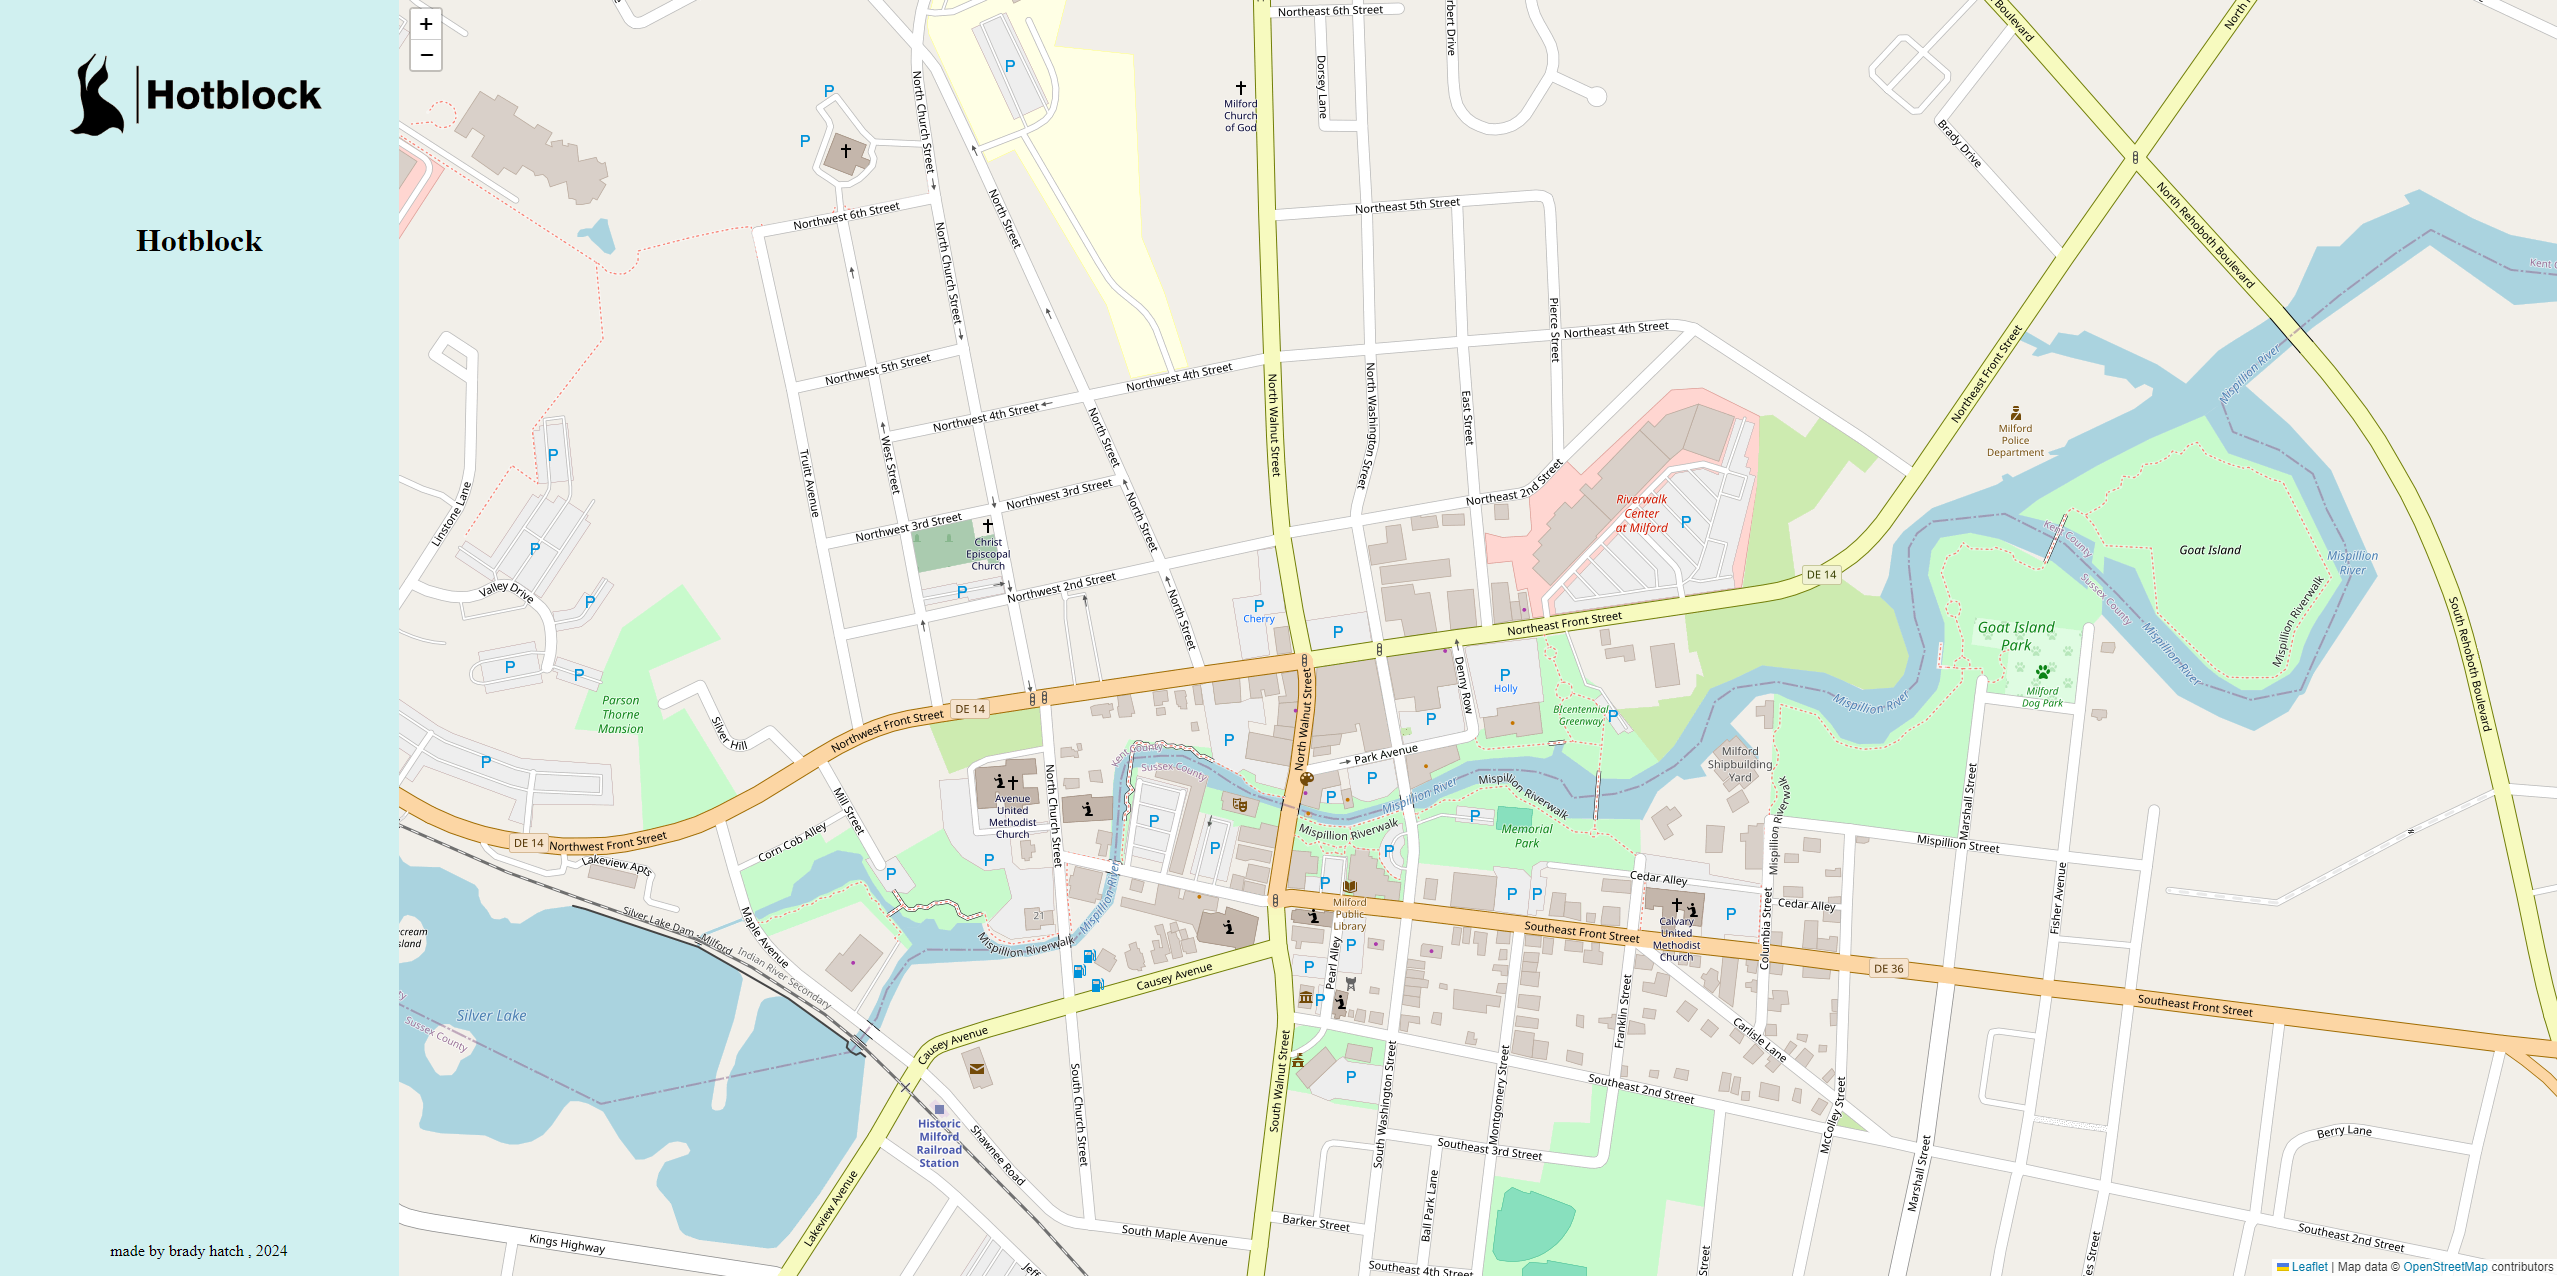
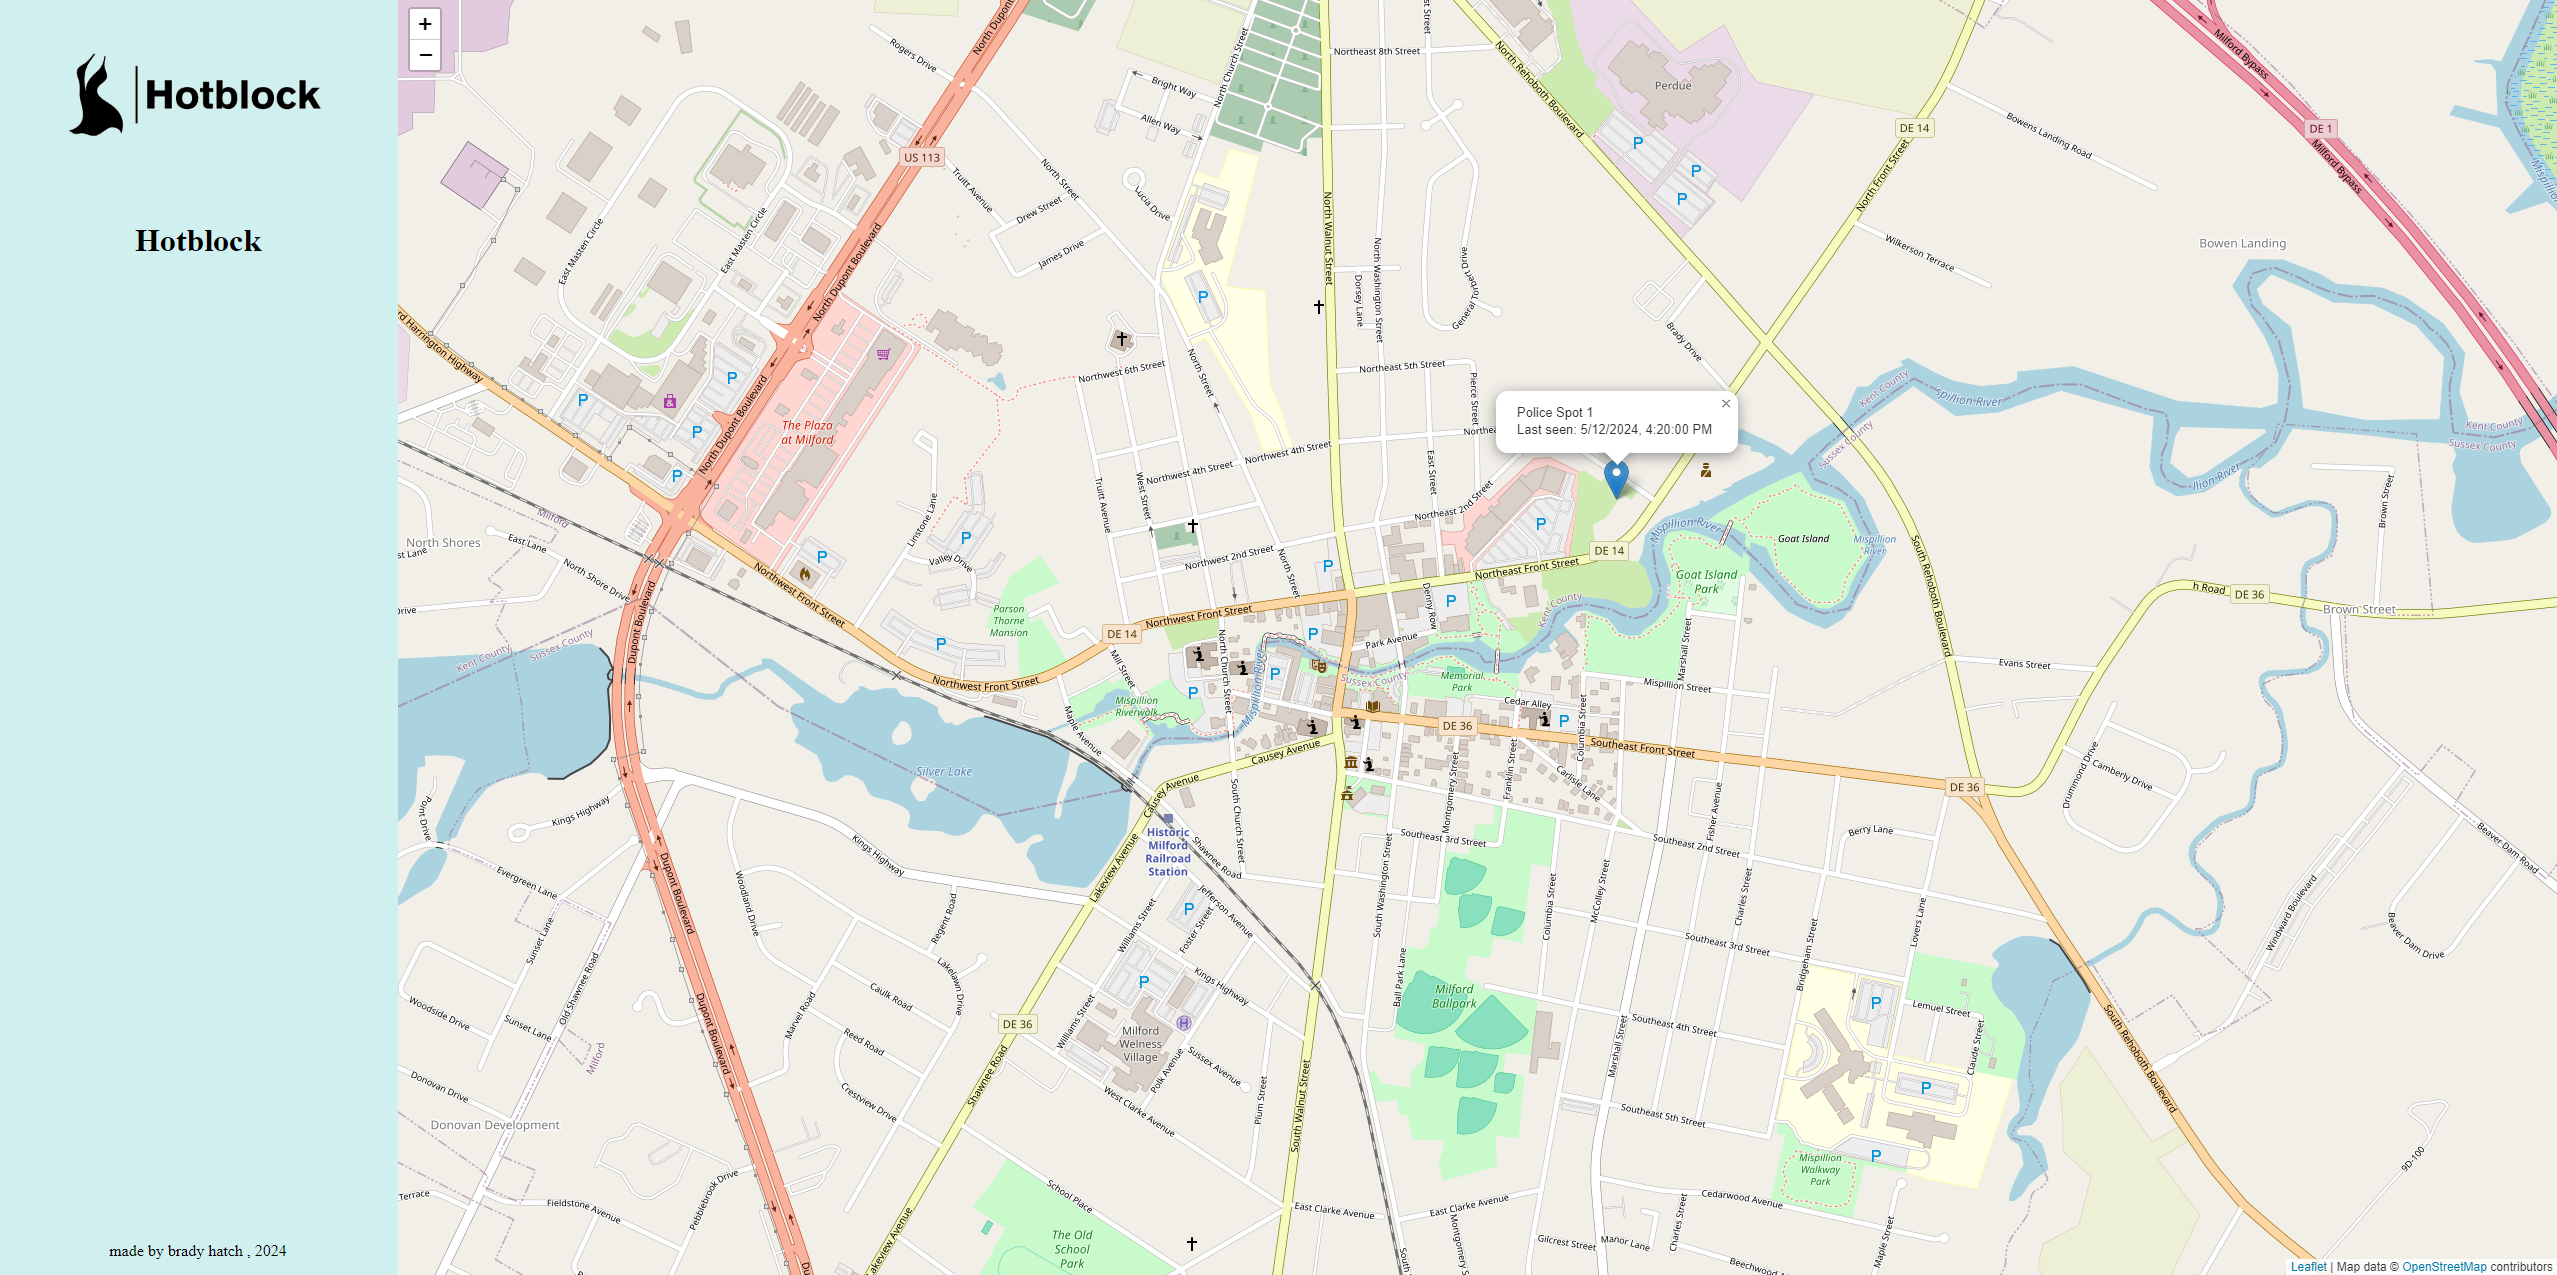
updated website screenshot, added to roadmap

diff --git a/README.md b/README.md
@@ -86,8 +86,9 @@ Will add more to this once its actually functional lmao
 - [x] Get marker points for cop locations working
 - [ ] Come up with better design for website
 - [ ] Expand on cop markers
-  - [ ] Allow points to be added
+  - [ ] Allow points to be added by users
   - [ ] Add search boxes to bring the user to a specified location
+  - [ ] Customize icons?
 
 See the [open issues](https://github.com/brxdyh/hotblock/issues) for a full list of proposed features (and known issues).
 
